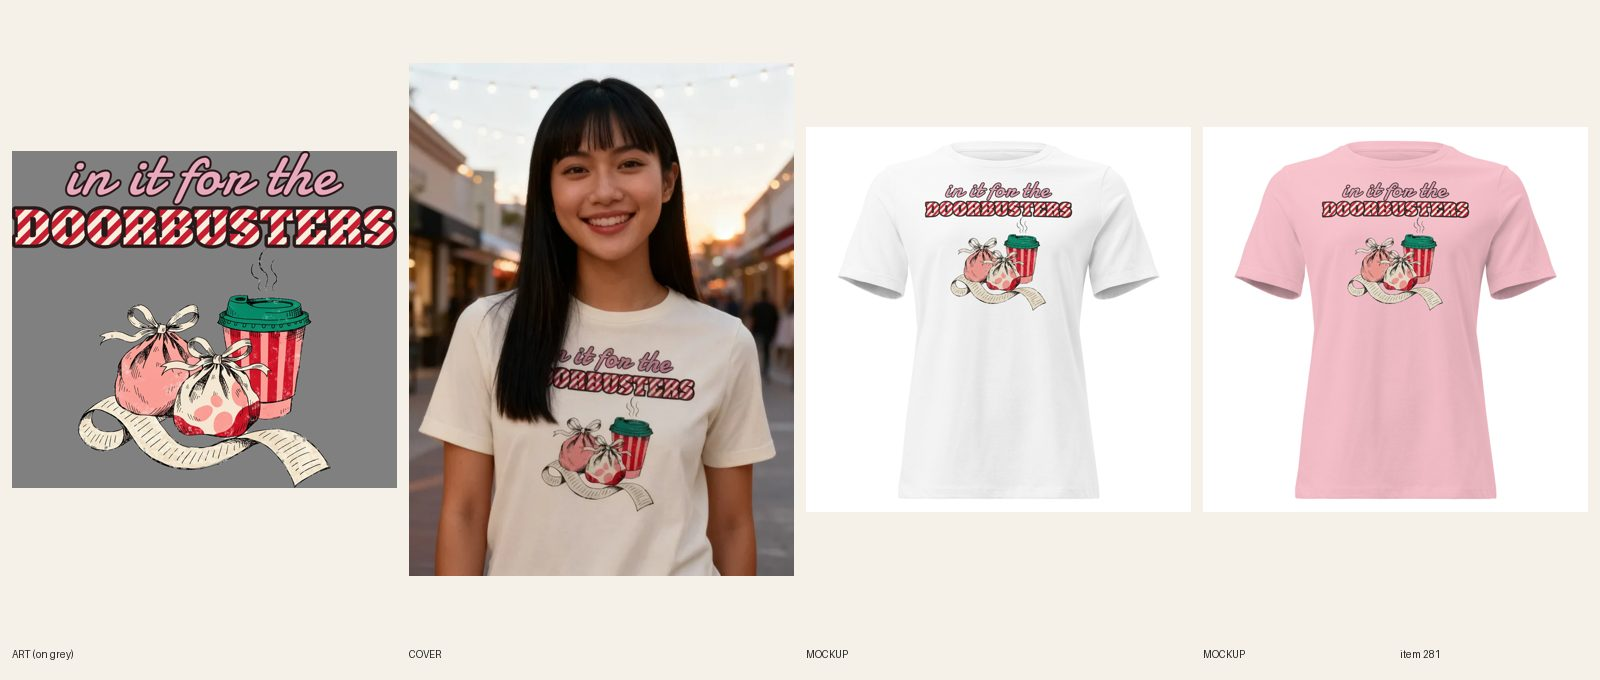
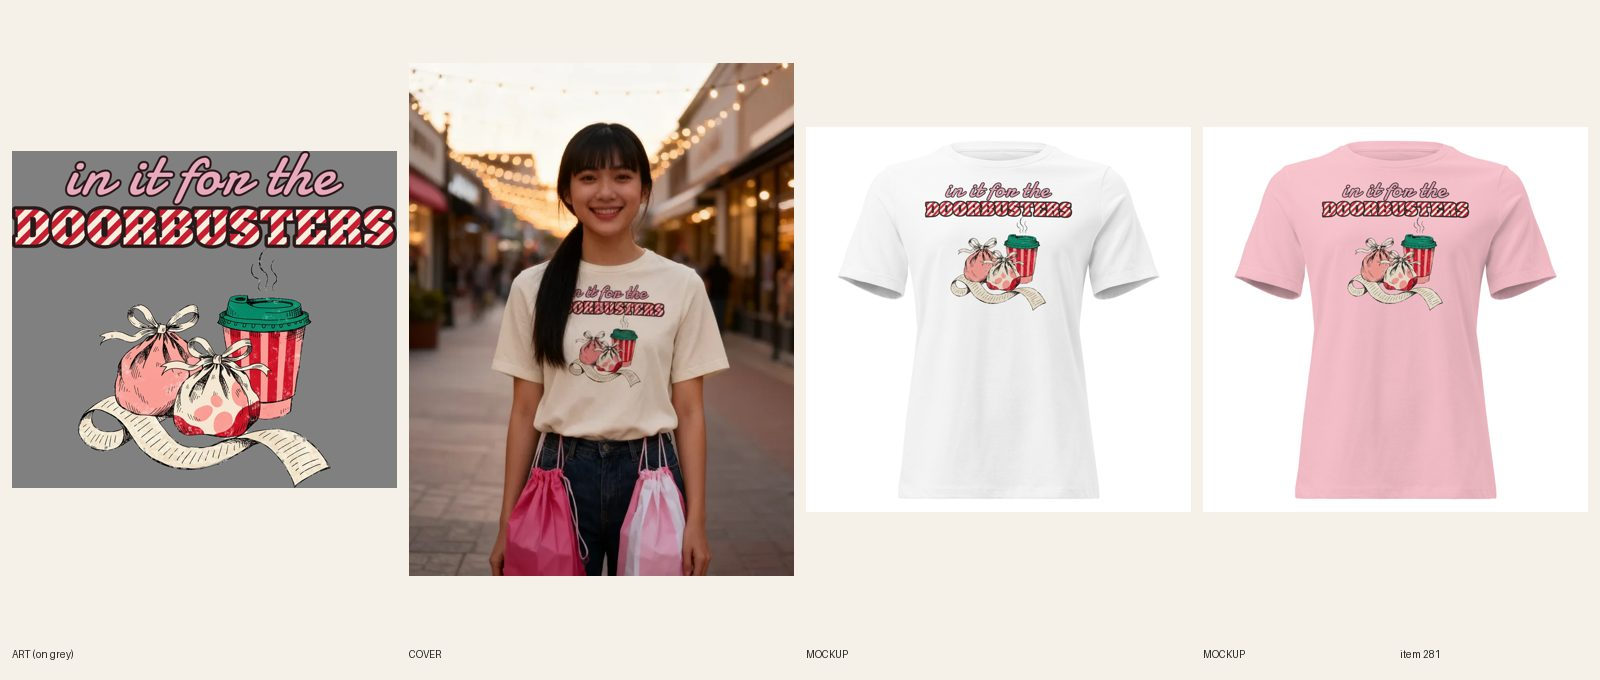
[C] review 439 My Backhand Has Opinions tennis cropped hoodie
Claude-Session: https://claude.ai/code/session_01XSSMqUiTodWLECXWDSkD2v

Changed region(s): [[0.25, 0.0926, 0.5, 0.8647]]

diff --git a/docs/pipeline/439-cropped-hoodie-tennis-single-and-serving.md b/docs/pipeline/439-cropped-hoodie-tennis-single-and-serving.md
@@ -1,4 +1,4 @@
-status: BUILDING [C] 2026-10-17 21:38 UTC
+status: REVIEW
 lane: C
 type: new
 id: 439
@@ -31,3 +31,4 @@ kd: 24
 - 2026-10-17 20:25 UTC Claude: READY (Sam: build everything planned). Shopify DRAFT exists: art, sync, mockups, cover, review. Words in real fonts via scripts/compose-print.py, AI draws the picture only, big on the chest (R4.8). Lane A. LINE REWRITE (cheeky not cheesy, R3.1): the words on the shirt are now "Love Means Nothing to Me" (this replaces the brief's text line; keep the brief's character/scene if it fits the new line, otherwise draw what the new line needs). Update the Shopify title and copy line one to the new line; handle stays.
 - 2026-10-17 21:25 UTC director: moved from lane A to lane C (lane C builds hoodies; lane A has 23 READY, lane C had 3).
 - 2026-10-17 21:41 UTC builder [C]: art 1 Recraft call (racket+bow+ball, no lettering), cream halo for Black; MY BACKHAND (Lobster, pink) / HAS OPINIONS (Alfa Slab One, yellow) via compose-print.py; net white gaps knocked out; FW 1500 TOP 20 (cropped area 1500x1500, print 1350 high); Printful file 1088510972, sync 482474494 running (10 variants); mockups Black+Storm attached; fal cover 1 image (registry #635): all words read, nothing over print. Copy fixed to the real art (pink script + yellow slab capitals); FAQs existing 5 x 40-60 words incl. Dec 8.
+- 2026-10-17 21:47 UTC builder [C]: REVIEW. Sync 10/10. Sheet docs/review/439.jpg. design-crops and variant-photo audit cover published products only: rerun when ACTIVE. Local cohesion audit not run (no spec file); copy checked by hand against the art. 

diff --git a/docs/pipeline/281-black-friday-in-it-for-the-doorbusters.md b/docs/pipeline/281-black-friday-in-it-for-the-doorbusters.md
@@ -27,3 +27,4 @@ kd: 46
 - 2026-10-17 20:25 UTC Claude: READY (Sam: build everything planned). Shopify DRAFT exists: art, sync, mockups, cover, review. Words in real fonts via scripts/compose-print.py, AI draws the picture only, big on the chest (R4.8). Lane C.
 - 2026-10-17 21:15 UTC builder [C]: art 1 Recraft call (3-motif cluster, no lettering); in it for the (Damion, pink) + DOORBUSTERS (Alfa Slab One filled with a red/cream candy-stripe in post, dark keyline) via compose-print.py, motif cluster below; FW 1500 TOP 75; Printful file 1088496565, sync 482392859 running (36 variants); mockups for ALL 6 colors attached to their own variants + back view. COVER 2 fal images (registry #462), DIRECTOR DECIDES / REDO LIKELY: try 1 had a vest, a coffee cup in her hand and her hair over the print; try 2 (kept) is clean except her hair covers the first letters of 'in it for the' and DOORBUSTERS (reads 'ORBUSTERS'). Copy and FAQs rewritten: 5 x 43-50 words with an order-by (Nov 16, Black Friday is Nov 27).
 - 2026-10-17 21:46 UTC builder [C]: REVIEW. Sync 36/36. Sheet docs/review/281.jpg. design-crops and variant-photo audit cover published products only: rerun when ACTIVE. Local cohesion audit not run (no spec file); copy checked by hand against the art. Cover: hair covers the first letters (reads ORBUSTERS); redo likely.
+- 2026-10-17 21:47 UTC builder [C]: third cover generated (over the 2-attempt cap, to avoid a known redo; fal $0.06): hair now only touches the D of DOORBUSTERS (reads 'OORBUSTERS'), kept; director may redo with the Printful flat mockup composite (R6.9).

diff --git a/docs/intake-log.md b/docs/intake-log.md
@@ -1,3 +1,4 @@
+2026-10-17 21:47 UTC — [C] REVIEW #439 My Backhand Has Opinions tennis cropped hoodie (DRAFT, synced 10/10, fal cover).
 2026-10-17 21:46 UTC — [C] REVIEW #281 In It for the Doorbusters Black Friday tee (DRAFT, synced 36/36, fal cover).
 2026-10-17 21:41 UTC — [C] REVIEW #493 Calm Face, Loud Brain nurse crewneck (DRAFT, synced 12/12, fal cover).
 2026-10-17 21:41 UTC — [C] REVIEW #487 University of Staying In crewneck (DRAFT, synced 12/12, fal cover).
